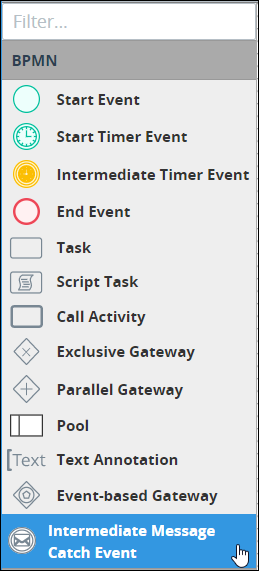
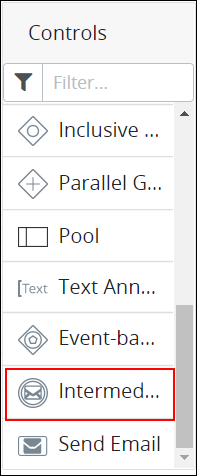
GitBook: [processmaker] one page and 2 assets modified

diff --git a/designing-processes/process-design/model-your-process/process-modeling-element-descriptions.md b/designing-processes/process-design/model-your-process/process-modeling-element-descriptions.md
@@ -20,7 +20,7 @@ Use event-type elements to represent an event, milestone, or delay in the Proces
 
 ### Start Event
 
-A Start Event element represents the start of a [Request](../../../using-processmaker/requests/what-is-a-request.md) for a Process. Therefore, a Start Event element cannot have an incoming [Sequence Flow](process-modeling-element-descriptions.md#sequence-flow) element. A Process model can have multiple Start Event elements.
+A Start Event element represents the start of a [Request](../../../using-processmaker/requests/what-is-a-request.md) for a Process. Therefore, a Start Event element cannot have an incoming [Sequence Flow](process-modeling-element-descriptions.md#sequence-flow) element, though it may have an outgoing [Message Flow](process-modeling-element-descriptions.md#message-flow) element. A Process model can have multiple Start Event elements.
 
 Use a Start Event element to represent how a Request for that Process starts in one of the following ways:
 
@@ -98,11 +98,11 @@ See [Add and Configure Intermediate Timer Event Elements](add-and-configure-inte
 
 ### End Event
 
-An End Event element represents where a Process ends when abnormal events such as a [canceled Request](../../../using-processmaker/requests/delete-a-request.md) do not terminate a [Request](../../../using-processmaker/requests/what-is-a-request.md). An End Event element ends the workflow for that Process. Therefore, an End Event element cannot have an outgoing [Sequence Flow](process-modeling-element-descriptions.md#sequence-flow) element, though it may have an outgoing [Message Flow](process-modeling-element-descriptions.md#message-flow) element. A Process model can have multiple End Event elements.
+An End Event element represents the completion of a [Request](../../../using-processmaker/requests/what-is-a-request.md) for a Process. Therefore, an End Event element cannot have an outgoing [Sequence Flow](process-modeling-element-descriptions.md#sequence-flow) element, though it may have an outgoing [Message Flow](process-modeling-element-descriptions.md#message-flow) element. A Process model can have multiple End Event elements.
 
-In Process Modeler, the End Event element is labeled as "End Event" in the **BPMN** panel as highlighted below.
+In Process Modeler, the End Event element is labeled as "End Event" in the **Controls** panel as highlighted below.
 
-![End Event element in the BPMN panel of Process Modeler](../../../.gitbook/assets/bpmn-panel-end-event-process-modeler-processes.png)
+![End Event element in the Controls panel of Process Modeler](../../../.gitbook/assets/bpmn-panel-end-event-process-modeler-processes.png)
 
 Below is an End Event element when it has been placed into a Process model.
 
@@ -118,6 +118,7 @@ A Task represents an activity to be performed either by a [Request](../../../usi
 
 * [Task](process-modeling-element-descriptions.md#task)
 * [Script Task](process-modeling-element-descriptions.md#script-task)
+* [Manual Task](process-modeling-element-descriptions.md#manual-task)
 
 ### Task
 
@@ -162,6 +163,10 @@ Below is a Script Task element when it has been placed into a Process model.
 {% hint style="info" %}
 See [Add and Configure Script Task Elements](add-and-configure-script-task-elements.md).
 {% endhint %}
+
+### Manual Task
+
+
 
 ## Call Activity
 
